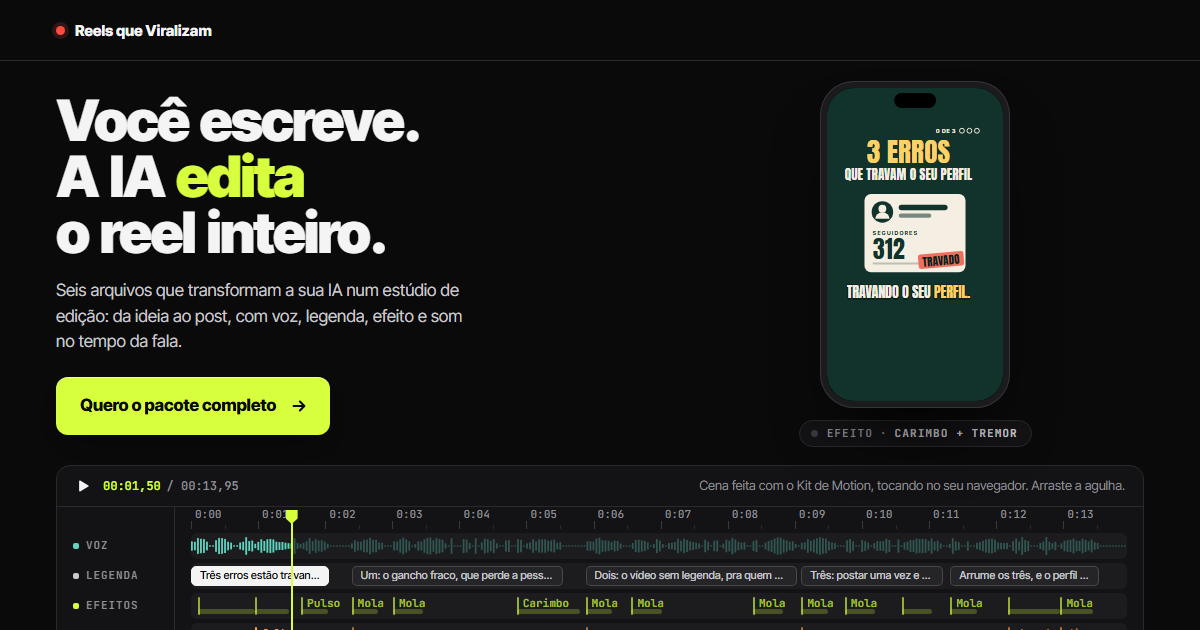
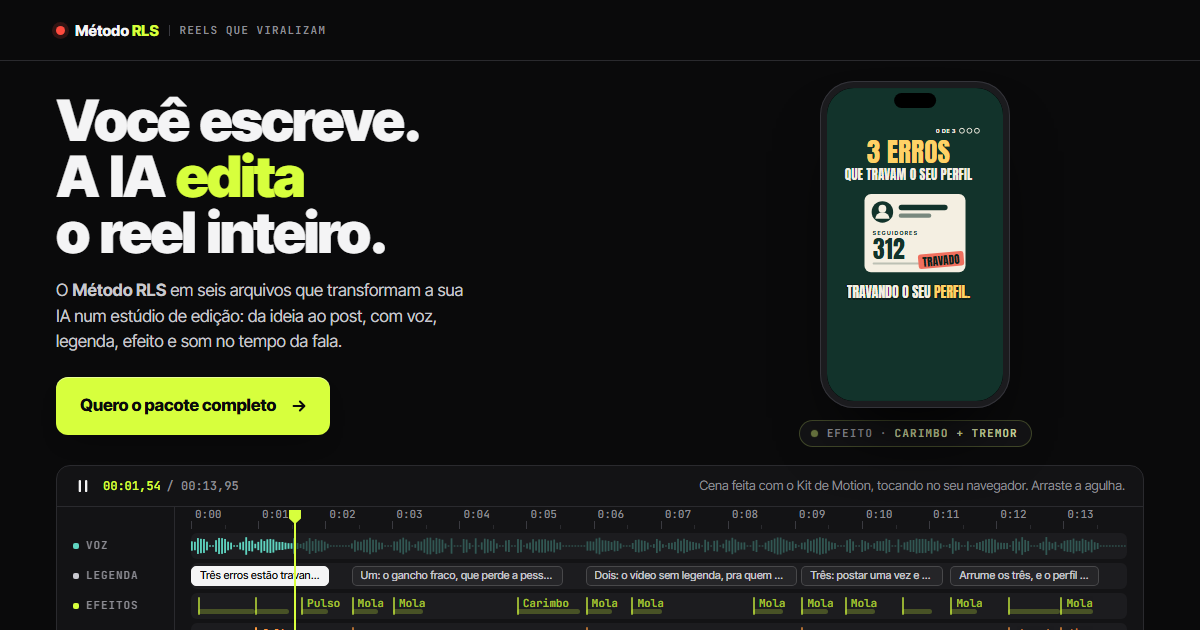
Metodo RLS no texto da pagina, duvida nova e imagem de compartilhamento

diff --git a/index.html b/index.html
@@ -4,10 +4,10 @@
 <meta charset="utf-8">
 <meta name="viewport" content="width=device-width, initial-scale=1, viewport-fit=cover">
 <title>Método RLS · Reels que Viralizam · Você escreve. A IA edita o reel inteiro.</title>
-<meta name="description" content="Seis arquivos que transformam a sua IA num estúdio de edição: da ideia ao post, com voz, legenda, efeito e som no tempo da fala.">
+<meta name="description" content="Método RLS: seis arquivos que transformam a sua IA num estúdio de edição: da ideia ao post, com voz, legenda, efeito e som no tempo da fala.">
 <meta name="theme-color" content="#0a0a0b">
 <meta property="og:title" content="Método RLS · Reels que Viralizam">
-<meta property="og:description" content="Você escreve. A IA edita o reel inteiro, com voz, legenda, efeito e som no tempo da fala.">
+<meta property="og:description" content="Você escreve. A IA edita o reel inteiro com o Método RLS: voz, legenda, efeito e som no tempo da fala.">
 <meta property="og:type" content="website">
 <meta property="og:url" content="https://reelsqueviralizam.com.br/">
 <meta property="og:image" content="https://reelsqueviralizam.com.br/og.png">
@@ -100,7 +100,7 @@
       </div>
     </div>
     <div class="abertura-texto">
-      <p class="sub">Seis arquivos que transformam a sua IA num estúdio de edição: da ideia ao post, com voz, legenda, efeito e som no tempo da fala.</p>
+      <p class="sub">O <b>Método RLS</b> em seis arquivos que transformam a sua IA num estúdio de edição: da ideia ao post, com voz, legenda, efeito e som no tempo da fala.</p>
       <a class="botao" href="#tabela" data-comprar="pacote">Quero o pacote completo <span class="botao-preco" data-preco="pacote">R$ 147</span><svg class="seta" viewBox="0 0 20 20" aria-hidden="true"><path d="M4 10h11.5M11 5l5 5-5 5" fill="none" stroke="currentColor" stroke-width="2.2" stroke-linecap="round" stroke-linejoin="round"/></svg></a>
       <p class="letrinha"><span data-preco="pacote">R$ 147</span><span data-so-na-black> até <span data-dia-fim>30/11</span></span> · garantia de 7 dias · Pix ou cartão</p>
     </div>
@@ -174,7 +174,7 @@
   <div class="conteudo arquivos-grade">
     <div class="arquivos-cabeca">
       <h2>Seis arquivos. Um estúdio inteiro.</h2>
-      <p class="sub">Cada um faz uma etapa do reel. Leve só o que precisa ou o pacote com todos.</p>
+      <p class="sub">Cada um faz uma etapa do reel.<span data-se-ativo="manual"> O manual, o 07, explica o método por trás deles.</span> Leve só o que precisa ou o pacote com todos.</p>
     </div>
     <div class="catalogo">
       <div class="capas" data-capas tabindex="0" role="region" aria-label="Capas dos arquivos. As setas do teclado trocam o arquivo.">
@@ -283,7 +283,7 @@
   <div class="conteudo prova-grade">
     <div class="prova-texto">
       <h2><span class="verso">Mais de <span class="junto">20 mil</span> seguidores</span> <span class="verso">na primeira semana</span></h2>
-      <p class="sub">Foi o que este método fez por uma conta que começou do zero. Um vídeo só trouxe <span class="junto">18 mil</span> seguidores em dois dias.</p>
+      <p class="sub">Foi o que o Método RLS fez por uma conta que começou do zero. Um vídeo só trouxe <span class="junto">18 mil</span> seguidores em dois dias.</p>
     </div>
     <ul class="numeros">
       <li><b data-conta="20" data-forma="+# mil">+20 mil</b><span>seguidores na primeira semana, com a conta partindo do zero.</span></li>
@@ -390,6 +390,7 @@
     <h2>Dúvidas.</h2>
     <div class="duvidas-grade">
       <div class="duvidas-coluna">
+        <details><summary>O que é o Método RLS?</summary><p>É o jeito de fazer reel narrado que levou uma conta do zero a mais de 20 mil seguidores na primeira semana: ideia, roteiro com três aberturas, voz, animação, revisão e post. Os seis arquivos fazem a IA seguir esse método, etapa por etapa.</p></details>
         <details><summary>O que é um arquivo para a IA?</summary><p>Um arquivo de instruções. Você anexa na conversa e a IA passa a seguir o método: pergunta o que precisa, faz a etapa e entrega no formato certo.</p></details>
         <details><summary>Serve para o meu nicho?</summary><p>Serve para qualquer nicho que caiba em vídeo narrado: finanças, curiosidades, notícias, história, games, fitness, receitas, educação. Os arquivos perguntam o seu nicho antes de começar.</p></details>
         <details><summary>Preciso de computador?</summary><p>Para os quatro arquivos de texto, basta o chat do Claude, no plano pago. Os dois kits pedem computador com o Claude Code; o teste foi no Windows.</p></details>
@@ -401,7 +402,7 @@
         <details><summary>A voz do vídeo é de IA?</summary><p>É. O Kit de Motion narra pela ElevenLabs, com a sua conta e a sua chave.</p></details>
         <details><summary>Como recebo?</summary><p>Na hora, por e-mail, depois do pagamento aprovado.</p></details>
         <details><summary>Tem garantia?</summary><p>7 dias. Se não servir, peça o reembolso e recebe tudo de volta.</p></details>
-        <details><summary>Vou viralizar?</summary><p>Nenhum método sério garante um viral. O que este método controla é o que mais pesa: cada vídeo sai com três aberturas testadas, uma promessa que é paga no fim e uma revisão antes de ir ao ar. Foi assim que o mesmo vídeo saiu de 2 mil para 5 milhões de views.</p></details>
+        <details><summary>Vou viralizar?</summary><p>Nenhum método sério garante um viral. O que o Método RLS controla é o que mais pesa: cada vídeo sai com três aberturas testadas, uma promessa que é paga no fim e uma revisão antes de ir ao ar. Foi assim que o mesmo vídeo saiu de 2 mil para 5 milhões de views.</p></details>
       </div>
     </div>
   </div>

diff --git a/demo/cena.html b/demo/cena.html
@@ -139,7 +139,7 @@
 
 <div id="cortina"><div></div></div>
 
-<!-- Só o kit (vem no Curso) cria o arquivo dados.js (o segundo exato de cada palavra, a voz e os sons).
+<!-- Só o kit (vem no Kit de Motion) cria o arquivo dados.js (o segundo exato de cada palavra, a voz e os sons).
      Sem ele o modelo funciona do mesmo jeito: pode deixar esta linha como está. -->
 <script src="dados.js"></script>
 
